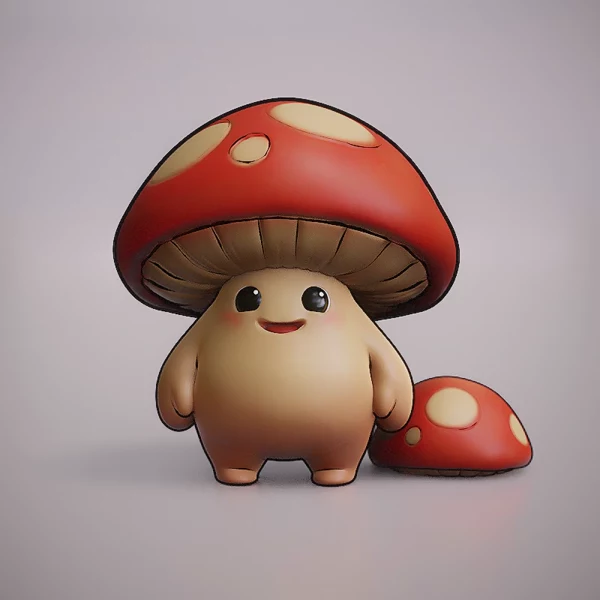
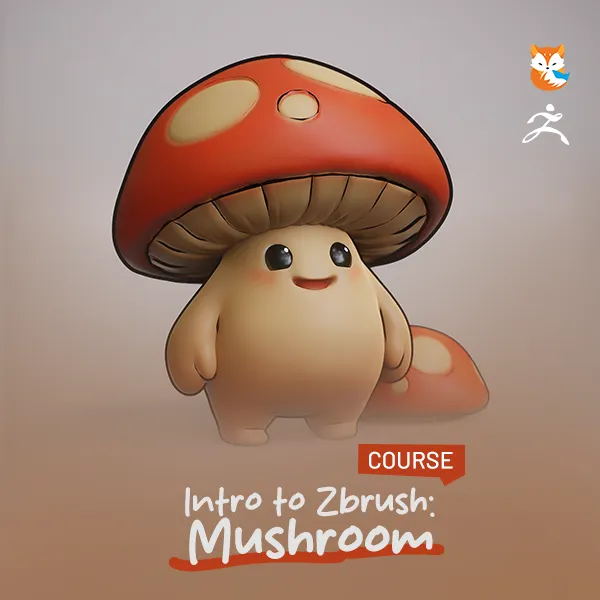
feat: apply official mushroom art and add inside-the-course section
Official covers from Drive replace the provisional video frames on the
home card, identity band, og:image and bundled-course sections; new
inside section shows three annotated lesson screenshots with i18n.

Claude-Session: https://claude.ai/code/session_01MC34dctEKXYwUGvqkHSWta

diff --git a/courses/intro-to-zbrush-mushroom/index.html b/courses/intro-to-zbrush-mushroom/index.html
@@ -11,7 +11,7 @@
   <meta property="og:type" content="website">
   <meta property="og:title" content="Intro to ZBrush: Mushroom | Vini Cavalcanti School">
   <meta property="og:description" content="12 lessons from absolute zero to your first complete ZBrush character — sculpted, painted and rendered. $19, lifetime access.">
-  <meta property="og:image" content="images/mushroom-poster-800x800.webp">
+  <meta property="og:image" content="images/mushroom-600x600.webp">
   <meta property="twitter:card" content="summary_large_image">
   <meta property="twitter:title" content="Intro to ZBrush: Mushroom | Vini Cavalcanti School">
   <meta property="twitter:description" content="12 lessons from absolute zero to your first complete ZBrush character — sculpted, painted and rendered. $19, lifetime access.">
@@ -210,6 +210,22 @@ src="https://www.facebook.com/tr?id=999436976070756&ev=PageView&noscript=1"
         <h3>Part 4 — Render and Export</h3>
         <p>Render your finished character and export it to share anywhere.</p>
       </article>
+    </div>
+  </div>
+</section>
+
+<!-- SECTION: inside (annotated lesson screenshots) -->
+<section class="section section--orange" id="inside">
+  <div class="container">
+    <div class="section__head reveal">
+      <span class="eyebrow eyebrow--orange">Inside the course</span>
+      <h2 class="h-display">Real lessons, drawn over the screen</h2>
+      <p class="section__lead">Every concept is annotated live on top of ZBrush — you see exactly where to look and what matters.</p>
+    </div>
+    <div class="inside__list">
+      <img src="images/inside-01.webp" alt="ZBrush lesson with live annotations: main brushes and subdivision" width="1658" height="895" loading="lazy" decoding="async" class="reveal">
+      <img src="images/inside-02.webp" alt="Blocking the mushroom character in ZBrush" width="1453" height="878" loading="lazy" decoding="async" class="reveal">
+      <img src="images/inside-03.webp" alt="ZBrush lesson with live annotations: from 2.5D canvas to 3D mesh" width="1649" height="888" loading="lazy" decoding="async" class="reveal">
     </div>
   </div>
 </section>

diff --git a/courses/intro-to-zbrush-mushroom/js/i18n.js b/courses/intro-to-zbrush-mushroom/js/i18n.js
@@ -57,6 +57,10 @@
     ['#grid-project article:nth-of-type(4) h3', 'Part 4 — Render and Export', 'Parte 4 — Render e Exportação'],
     ['#grid-project article:nth-of-type(4) p', 'Render your finished character and export it to share anywhere.', 'Renderize seu personagem finalizado e exporte para compartilhar onde quiser.'],
 
+    ['#inside .section__head .eyebrow', 'Inside the course', 'Por dentro do curso'],
+    ['#inside .section__head h2', 'Real lessons, drawn over the screen', 'Aulas reais, desenhadas sobre a tela'],
+    ['#inside .section__lead', 'Every concept is annotated live on top of ZBrush — you see exactly where to look and what matters.', 'Cada conceito é anotado ao vivo por cima do ZBrush — você vê exatamente para onde olhar e o que importa.'],
+
     ['.identity__body h2', 'Never opened ZBrush?<br>This was made for <span class="accent-orange">you</span>.', 'Nunca abriu o ZBrush?<br>Isto foi feito para <span class="accent-orange">você</span>.'],
     ['.identity__body p', 'No prior knowledge needed. Every lesson tells you WHAT you\'re learning, WHY it matters and the GOAL you should reach before moving on — a step-by-step method built so beginners never feel lost.', 'Nenhum conhecimento prévio necessário. Cada aula diz O QUE você está aprendendo, POR QUE isso importa e o OBJETIVO que você deve alcançar antes de avançar — um método passo a passo feito para iniciante não se perder.'],
     ['.identity__body .btn--inverse', 'Start from zero today', 'Comece do zero hoje'],

diff --git a/courses/intro-to-zbrush-mushroom/css/styles.css b/courses/intro-to-zbrush-mushroom/css/styles.css
@@ -742,3 +742,7 @@ a:focus-visible, button:focus-visible, summary:focus-visible, video:focus-visibl
 .next-steps__card p { font-size: 0.9375rem; line-height: var(--leading-relaxed); color: rgba(0,0,0,.6); }
 .next-steps__note { font-weight: 600; color: var(--color-orange) !important; }
 .next-steps__card .btn { margin-top: auto; }
+
+/* SECTION: inside (annotated lesson screenshots) ------------------------------------ */
+.inside__list { display: grid; gap: 1.5rem; max-width: 56rem; margin-inline: auto; }
+.inside__list img { width: 100%; height: auto; border-radius: var(--radius-card); border: 1px solid rgba(0,0,0,.05); box-shadow: var(--shadow-md); background: var(--color-white); }

diff --git a/courses/intro-to-zbrush-mushroom/AI-STUDIO.md b/courses/intro-to-zbrush-mushroom/AI-STUDIO.md
@@ -33,7 +33,7 @@ intro-to-zbrush-mushroom/
 └── fonts/            ← Inter e Outfit woff2 (400/500/600/700)
 ```
 
-Seções do index.html na ordem: header (réplica root, NÃO ALTERAR) · hero (banda vermelho-tijolo, vídeo turntable) · studios (NÃO ALTERAR) · modules (2 blocos: Foundations 8 cards + Final Project 4 cards) · identity (banda vermelha: método para iniciantes) · instructor (NÃO ALTERAR, compartilhado) · pricing ($19) · next-steps (funil: stylized + mentoria) · faq (6 `<details>`) · final-cta · footer (réplica, NÃO ALTERAR) · sticky-cta mobile.
+Seções do index.html na ordem: header (réplica root, NÃO ALTERAR) · hero (banda vermelho-tijolo, vídeo turntable) · studios (NÃO ALTERAR) · modules (2 blocos: Foundations 8 cards + Final Project 4 cards) · inside (3 screenshots anotados das aulas) · identity (banda vermelha: método para iniciantes) · instructor (NÃO ALTERAR, compartilhado) · pricing ($19) · next-steps (funil: stylized + mentoria) · faq (6 `<details>`) · final-cta · footer (réplica, NÃO ALTERAR) · sticky-cta mobile.
 
 ## 4. Design tokens (NUNCA alterar sem autorização do Vini)
 
@@ -55,6 +55,6 @@ Específicos deste curso (sampleados do chapéu vermelho-tijolo da arte do cogum
 ## 6. Pendências
 
 - [ ] **BLOQUEANTE: trocar o checkout placeholder.** Todos os links `https://pay.hotmart.com/XXXXXXXXXX?sck=lp_mushroom` (hero, identity, pricing, final-cta, sticky-cta) devem receber o ID real do produto na Hotmart assim que criado. NÃO divulgar a página antes disso.
-- [ ] Substituir as artes provisórias (frames extraídos do vídeo) pelas oficiais quando os arquivos chegarem: capa quadrada (og:image + identity), capa wide 800x500 (card da home em `/images/course-Intro_Zbrush_Mushroom.webp`).
-- [ ] Adicionar seção "inside the course" com screenshots anotados das aulas (3–6 imagens 1280x720 webp) quando os arquivos chegarem.
+- [x] Artes oficiais aplicadas: capa quadrada 600x600 (identity + og:image + seções "Also included" das outras LPs) e capa wide 800x500 (card da home). O poster do vídeo segue sendo frame extraído (mesma proporção do vídeo, intencional).
+- [x] Seção "inside" adicionada com os 3 screenshots anotados das aulas.
 - [ ] OG image dedicada 1200×630 (gerar a partir da capa quadrada oficial).
